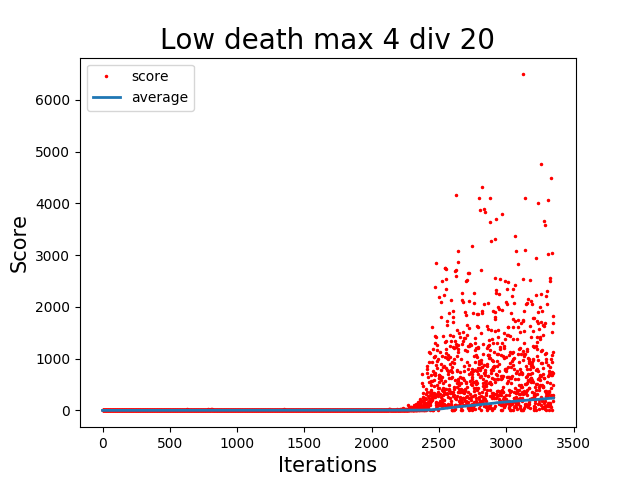
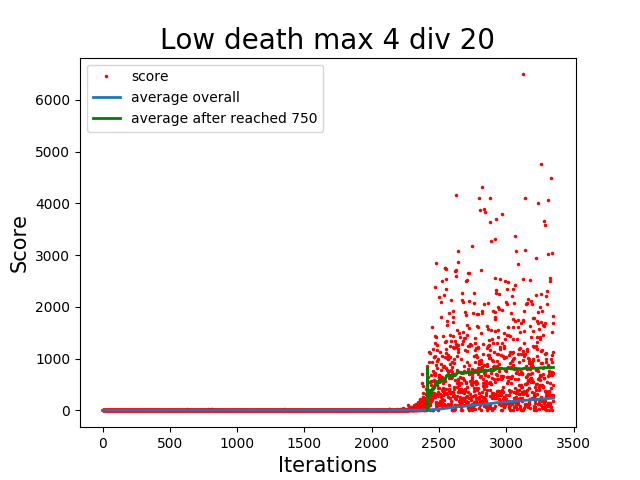
Add files via upload

Changed region(s): [[0.125, 0.1875, 0.5, 0.2812], [0.6562, 0.75, 0.875, 0.8438]]

diff --git a/low_death max 4 divided by 20/ploting_scores.py b/low_death max 4 divided by 20/ploting_scores.py
@@ -26,17 +26,29 @@ n = len(x)
 
 timer = n * 1.5
 timer += sum(y)*0.6
-pretty_time = time.strftime('%d:%H:%M:%S', time.gmtime(timer))
-days = int(pretty_time.split(':')[0])
+pretty_time = time.strftime('%dd:%Hh:%Mm:%Ss', time.gmtime(timer))
+days = int(pretty_time.split(':')[0][:2])
 days = days-1
 pretty_time = str(int(days / 10))+str(int(days %10))+pretty_time[2:]
 
 
-print("Timer: ", pretty_time, "\nIterations: ", n, "\nAverage score: ", mean(y), )
+stable_x = 0
+for i in y:
+    if i > 750:
+        break
+    stable_x +=1
 
+stable_x_list = x[stable_x:]
+stable_y_list = y[stable_x:]
+avg_list_better = [mean_with_length(stable_y_list,i) for i in range(len(stable_y_list))]
+
+
+print("Timer: ", pretty_time, "\nIterations: ", n, "\nAverage overall: ", mean(y))
+print("Average after reached 750: ", mean(stable_y_list),"\nMax: ", max(y))
 
 plt.plot(x,y,'r.', label = 'score', ms = 3)
-plt.plot(x,avg_list, lw = 2, label = 'average')
+plt.plot(x,avg_list, lw = 2, label = 'average overall')
+plt.plot(stable_x_list, avg_list_better, label = 'average after reached 750', lw = 2, color = 'green')
 plt.xlabel('Iterations', fontsize = 15)
 plt.ylabel('Score', fontsize = 15)
 plt.title('Low death max 4 div 20', fontsize = 20)
